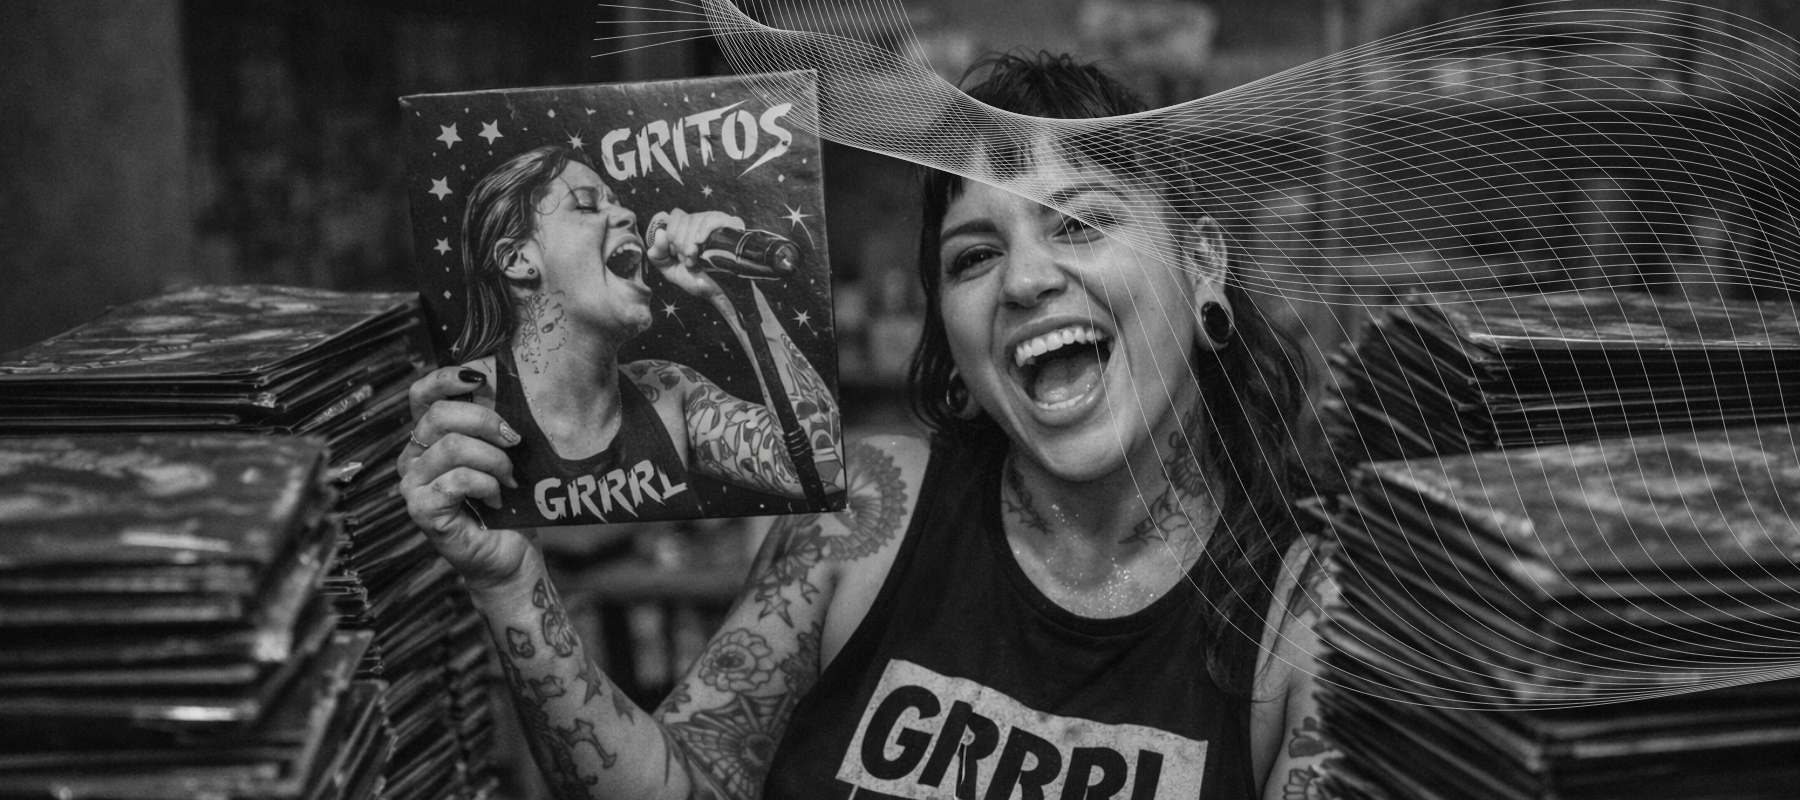
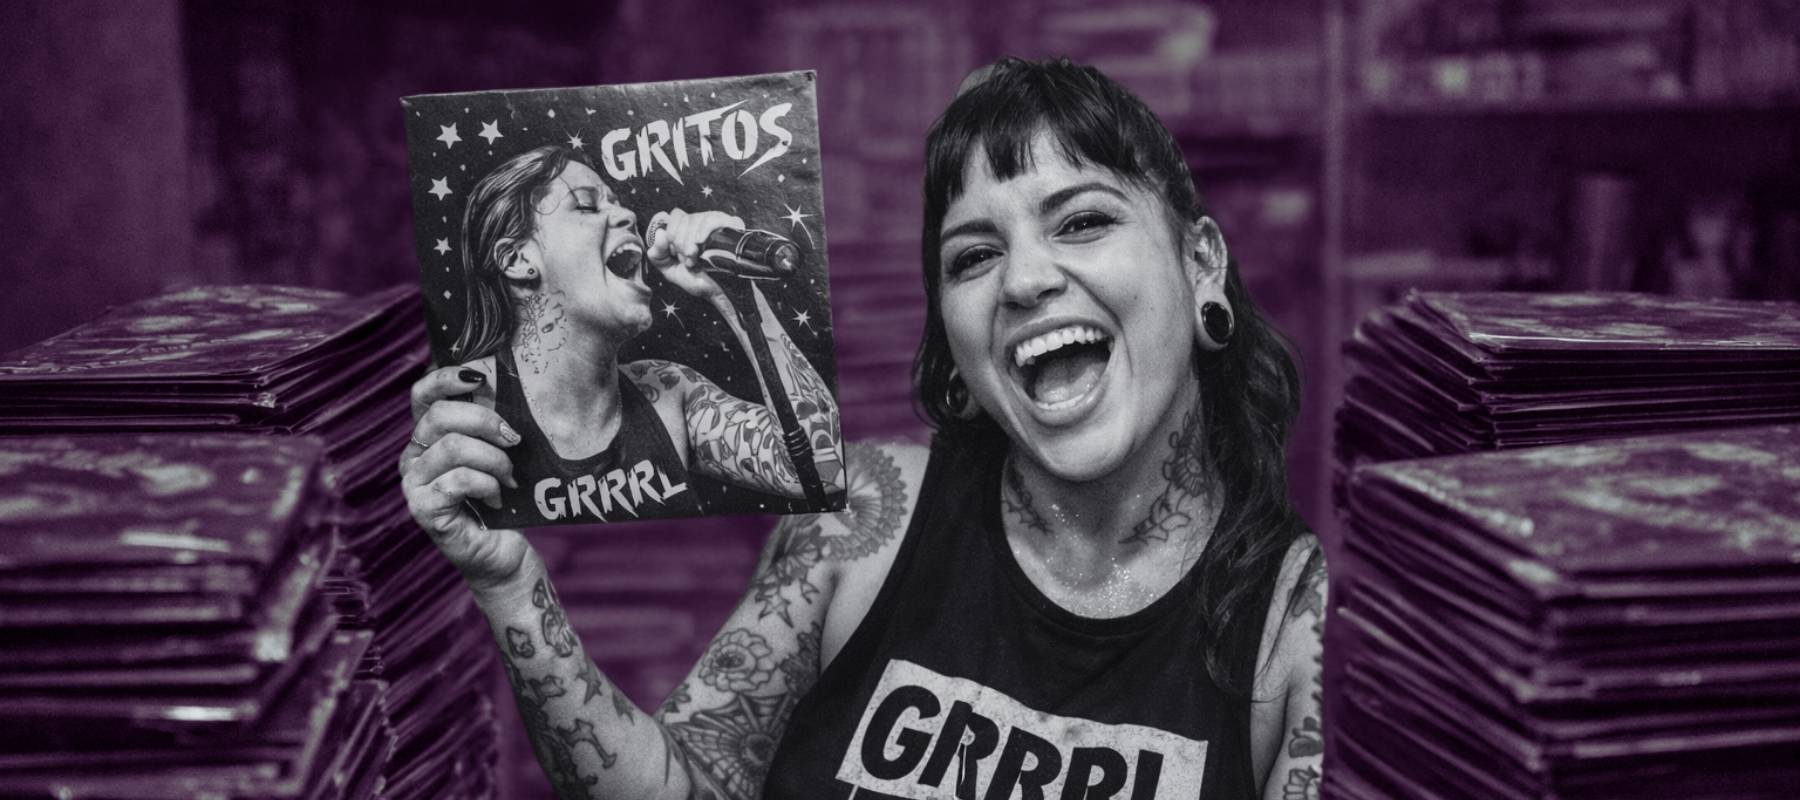
Changes

diff --git a/src/pages/Index.tsx b/src/pages/Index.tsx
@@ -4,7 +4,7 @@ import { ArrowRight, PlayCircle, Check } from "lucide-react";
 import { Button } from "@/components/ui/button";
 import Navbar from "@/components/Navbar";
 import Footer from "@/components/Footer";
-import heroImage from "@/assets/hero-new.jpg";
+import heroImage from "@/assets/hero-revised.jpg";
 import sectionAImage from "@/assets/sectiona-revised.png";
 import sectionBImage from "@/assets/sectionb-revised.png";
 import llsPlaceholder from "@/assets/lls-placeholder.png";
@@ -108,7 +108,7 @@ const Index = () => {
       {/* Large Image Hero Section 1 - "Never shout your instagram" */}
       <section className="relative min-h-[60vh] flex items-end overflow-hidden">
         {/* Background image */}
-        <div className="absolute inset-0 bg-gradient-to-t from-background via-background/80 to-transparent z-10" />
+        <div className="absolute inset-0 bg-gradient-to-t from-background/70 via-background/40 to-transparent z-10" />
         <div 
           className="absolute inset-0 bg-cover bg-center"
           style={{ backgroundImage: `url(${sectionAImage})` }}
@@ -166,13 +166,13 @@ const Index = () => {
       {/* Large Image Hero Section 2 - "The future of music is local" */}
       <section className="relative min-h-[60vh] flex items-end overflow-hidden">
         {/* Background image */}
-        <div className="absolute inset-0 bg-gradient-to-t from-background via-background/80 to-transparent z-10" />
+        <div className="absolute inset-0 bg-gradient-to-t from-background/70 via-background/40 to-transparent z-10" />
         <div 
           className="absolute inset-0 bg-cover bg-center"
           style={{ backgroundImage: `url(${sectionBImage})` }}
         />
         
-        <div className="container relative z-20 mx-auto px-4 pb-[calc(3.5rem+20px)] pt-14">
+        <div className="container relative z-20 mx-auto px-4 pb-[calc(3.5rem+40px)] pt-14">
           <div className="max-w-3xl">
             <h2 className="font-display font-bold text-3xl md:text-5xl lg:text-6xl text-foreground leading-[0.95]">
               the future <span className="text-primary">of music</span><br />
